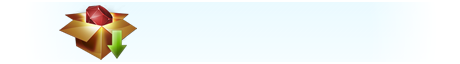
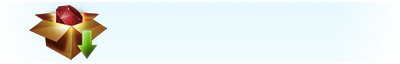
Change slogan to "The Ruby Programming Language on the JVM"

Changed region(s): [[0.06, 0.0625, 0.3, 0.9375]]

diff --git a/www/stylesheets/main.css b/www/stylesheets/main.css
@@ -144,14 +144,14 @@ a:hover, a:active {
   display: none;
 }
 #latest_release {
-  background: url(/images/bg-download.png) no-repeat center;
+  background: url(/images/bg-download.png) no-repeat left;
   float: right;
   width: 460px;
   padding: 15px 0;
   margin-top: 25px;
 }
 #latest_release h3, #latest_release ul {
-  margin: 0 0 0 140px;
+  margin: 0 0 0 110px;
 }
 #latest_release h3 {
   font-weight: 700;
@@ -167,7 +167,7 @@ a:hover, a:active {
 #latest_release li {
   display: inline-block;
   border-left: 1px solid #DDD;
-  padding: 0 6px;
+  padding: 0 4px;
   margin: 0;
   line-height: 1em;
 }

diff --git a/www/_layouts/home.html b/www/_layouts/home.html
@@ -10,7 +10,7 @@
   <div id="container">
     <div id="header">
       <h1>JRuby</h1>
-      <h2>100% Pure-Java Implementation of the<br /> <strong><em>Ruby</em> Programming Language</strong></h2>
+      <h2>The <strong><em>Ruby</em> Programming Language</strong><br/> on the JVM</h2>
       {% include release.html %}
     </div>
     {{ content }}

diff --git a/www/_includes/banner.html b/www/_includes/banner.html
@@ -1,2 +1,2 @@
       <h1>JRuby</h1>
-      <h2>100% Pure-Java Implementation of the <strong>Ruby Programming Language</strong></h2>
+      <h2>The <strong>Ruby Programming Language</strong> on the JVM</h2>
